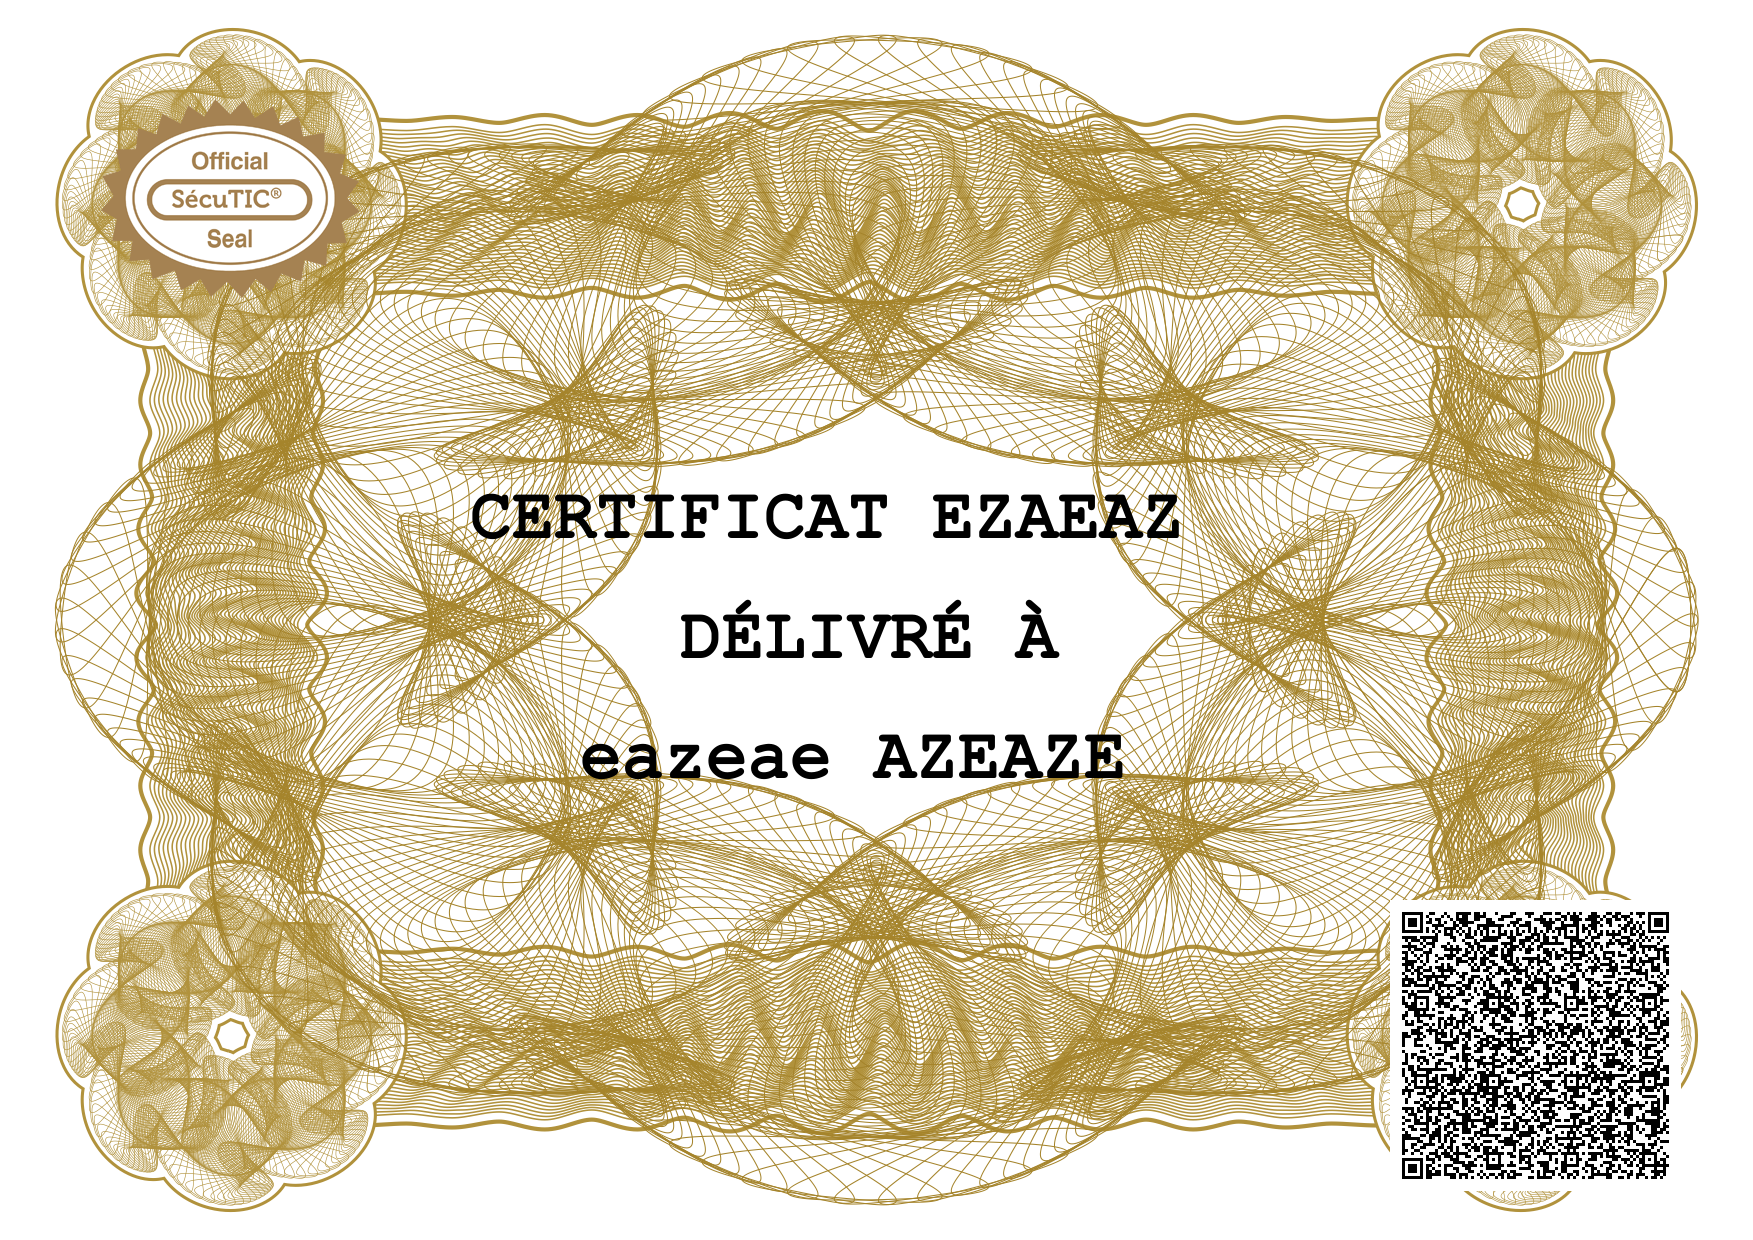
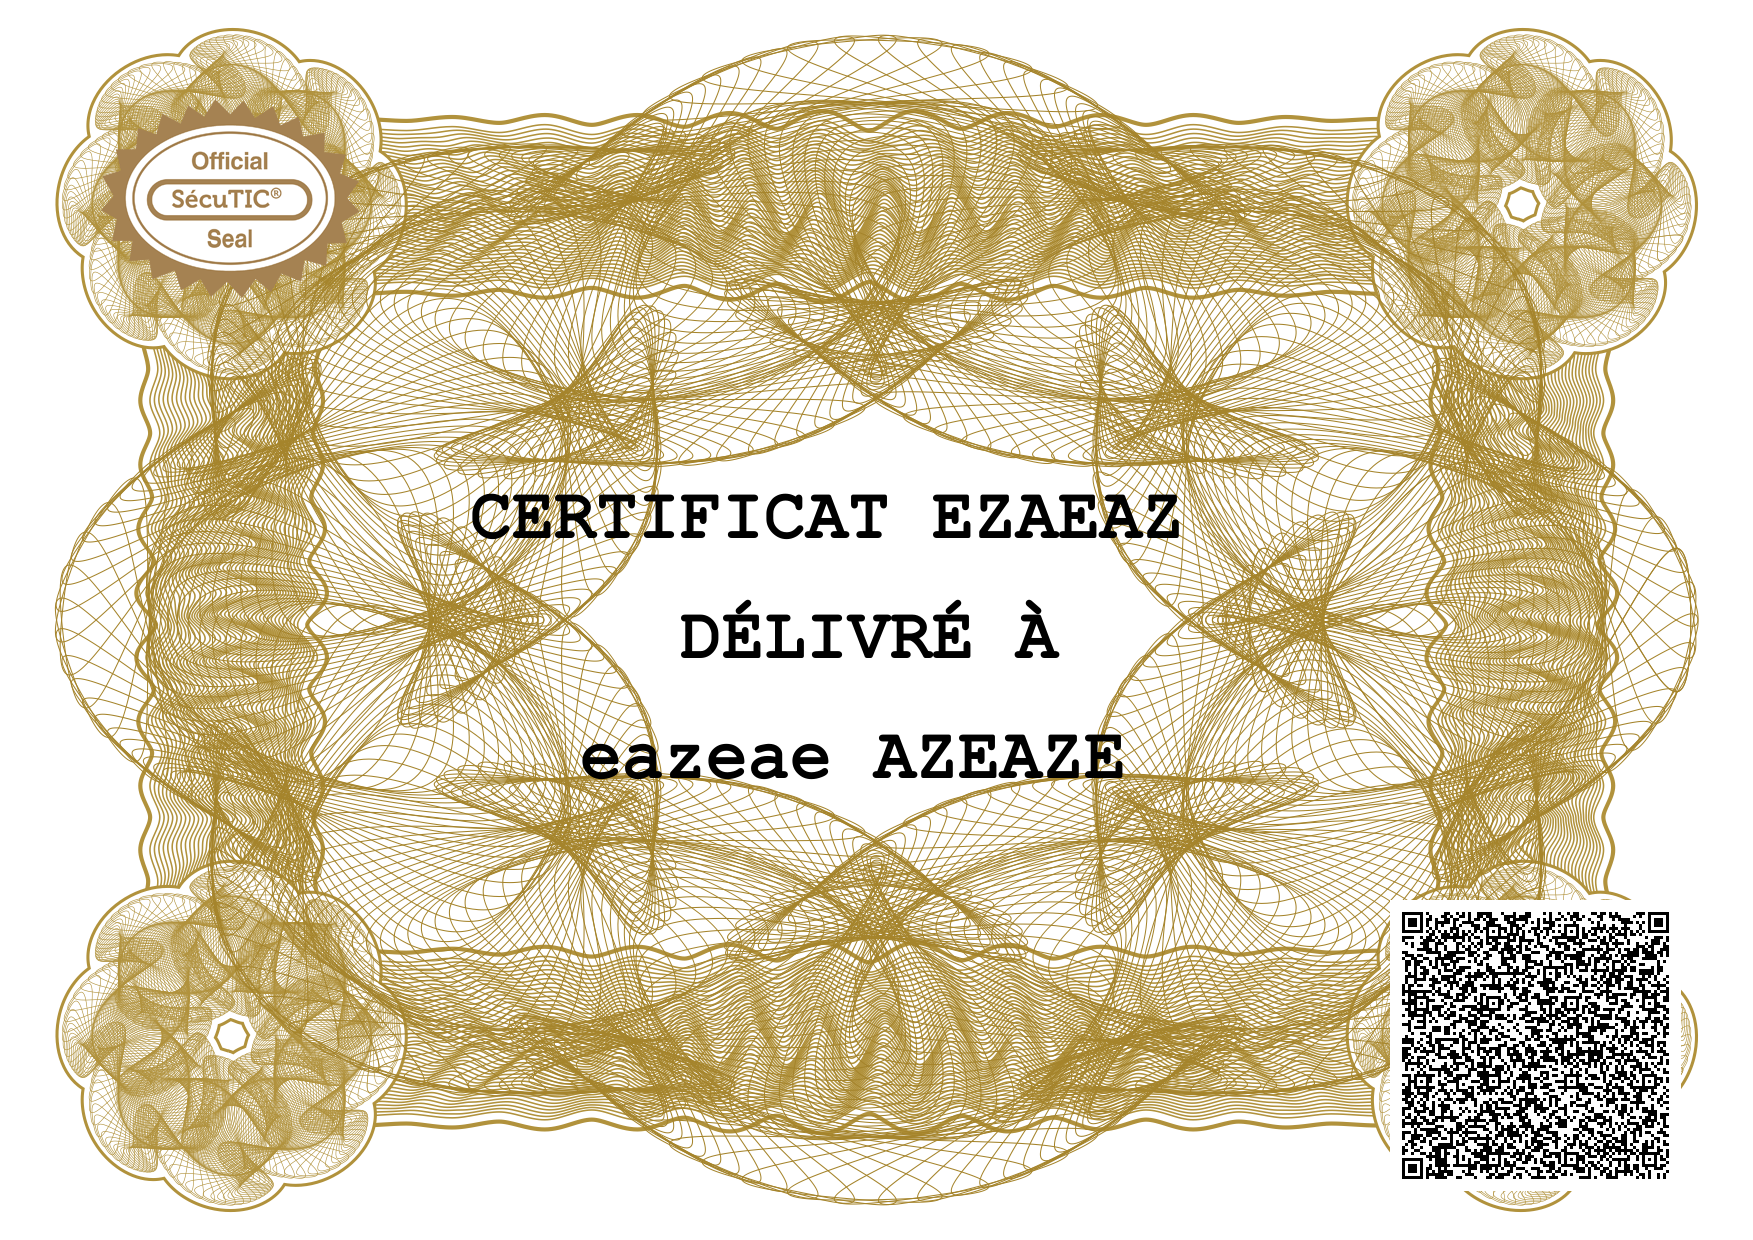
fix stéga

Changed region(s): [[0.8009, 0.7355, 0.9549, 0.95]]

diff --git a/main.py b/main.py
@@ -15,7 +15,6 @@ import os
 
 # pip install segno
 # pip install qrcode
-# pip install cv2
 # pip install opencv-python
 
 
@@ -211,6 +210,7 @@ def CreateDiploma(query): #Object { prenom: "", nom: "", diplome: "" }
 	diplome = j["diplome"]
 	createBaseDiploma(prenom, nom, diplome)
 	result = createSteganoContent("diplome.png", prenom, nom, diplome)
+	addStegano("diplome.png",result)
 	signature = createSignature(result)
 	creerQRCode(signature)
 	return 0
@@ -218,4 +218,5 @@ def CreateDiploma(query): #Object { prenom: "", nom: "", diplome: "" }
 query = '{"query":{"prenom":"eazeae","nom":"azeaze","diplome":"ezaeaz"}}'
 
 CreateDiploma(query)
+verifAttestation()
 #https://gist.github.com/void-elf/0ed0e136d6d342974257c93f571e28b5
